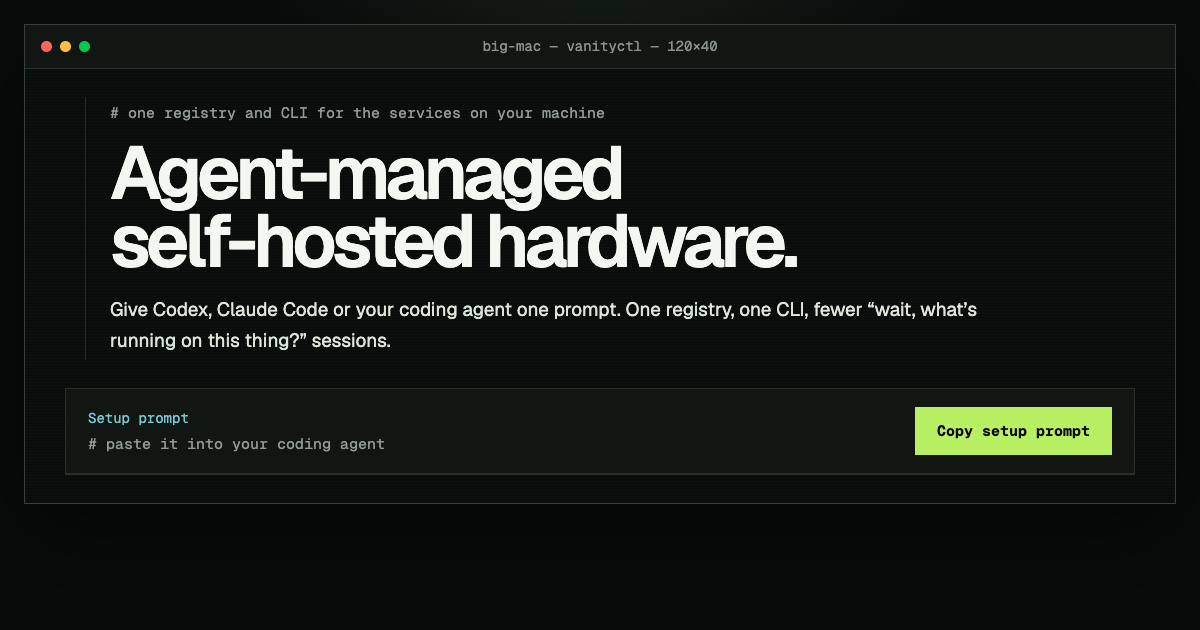
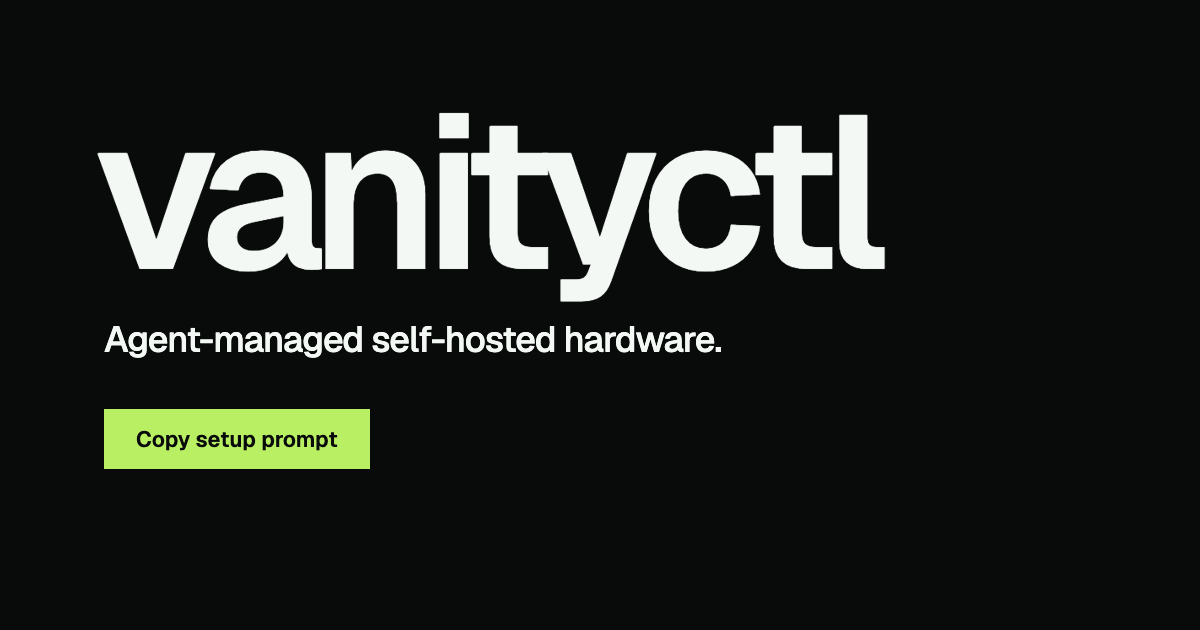
Simplify the site around its identity, prompt and concise overview

diff --git a/site/app/globals.css b/site/app/globals.css
@@ -1,81 +1,71 @@
 @import "tailwindcss";
 
-:root { --bg:#080b0a; --panel:#0b0f0c; --bar:#111612; --line:#263029; --text:#dce7dc; --bright:#f1f7f1; --muted:#8f9b93; --green:#b9ef63; --green-2:#7fd66f; --orange:#ff7043; --cyan:#79c8d2; }
-* { box-sizing:border-box; }
+:root { --bg:#080b0a; --panel:#111613; --text:#dce7dc; --bright:#f4f8f4; --muted:#9aa69e; --green:#b9ef63; --green-hover:#cdf585; --orange:#ff8a5c; }
 html { background:var(--bg); }
-body { --mono:var(--font-geist-mono),ui-monospace,monospace; --sans:var(--font-geist-sans),sans-serif; margin:0; color:var(--text); background:radial-gradient(circle at 50% -20%,#1a241d 0,transparent 38%),var(--bg); font:15px/1.6 var(--mono); }
-a { color:inherit; text-decoration:none; }
-code,pre,textarea,button { font-family:var(--mono); }
+/* next/font sets its variables on body, so the aliases must live here too. */
+body { --mono:var(--font-geist-mono),ui-monospace,monospace; --sans:var(--font-geist-sans),sans-serif; margin:0; color:var(--text); background:var(--bg); font:18px/1.6 var(--sans); }
+a { color:inherit; }
+code,textarea { font-family:var(--mono); }
 ::selection { background:var(--green); color:var(--bg); }
 :focus-visible { outline:2px solid var(--green); outline-offset:3px; }
+.visually-hidden { position:absolute; width:1px; height:1px; overflow:hidden; clip-path:inset(50%); white-space:nowrap; }
 
-main { padding:24px; }
-.terminal-window { width:min(1080px,100%); margin:auto; border:1px solid #344039; background-color:rgba(8,12,10,.96); background-image:repeating-linear-gradient(to bottom,rgba(220,231,220,.018) 0 1px,transparent 1px 3px); box-shadow:0 28px 90px rgba(0,0,0,.55); }
-.titlebar { height:44px; display:grid; grid-template-columns:1fr auto 1fr; align-items:center; padding:0 16px; border-bottom:1px solid var(--line); background:var(--bar); color:#89948c; font-size:13px; }
-.traffic { display:flex; gap:8px; }
-.traffic i { width:11px; height:11px; border-radius:50%; background:#ff645c; }
-.traffic i:nth-child(2) { background:#ffbd44; } .traffic i:nth-child(3) { background:#00ca4e; }
-nav { display:flex; flex-wrap:wrap; justify-content:center; gap:0 32px; padding:0 16px; border-bottom:1px solid var(--line); font-size:14px; }
-nav a { display:inline-flex; align-items:center; min-height:44px; color:var(--muted); }
-nav a:hover { color:var(--green); }
+.page { width:min(1120px,100%); margin:auto; padding:0 clamp(20px,5vw,64px); }
 
-.session { padding:clamp(24px,3vw,36px) clamp(18px,5vw,56px) clamp(20px,3vw,32px); }
-.prompt { display:flex; align-items:center; gap:9px; min-height:24px; color:#edf5ed; font-size:15px; overflow-wrap:anywhere; }
-.prompt-host { color:var(--green-2); font-weight:700; } .prompt-path { color:var(--cyan); } .prompt-mark { color:var(--orange); font-weight:800; }
-.output-block { margin-left:20px; padding-left:24px; border-left:1px solid var(--line); }
-.comment { color:var(--muted); }
+.site-header nav { display:flex; justify-content:flex-end; gap:0 28px; padding-top:12px; font-size:16px; }
+.site-header a { display:inline-flex; align-items:center; min-height:44px; color:var(--muted); text-decoration:none; }
+.site-header a:hover { color:var(--bright); }
 
-.hero { padding-block:4px; container-type:inline-size; }
-h1 { margin:14px 0 20px; color:var(--bright); font:600 min(8.4vw,88px)/.92 var(--sans); letter-spacing:-.06em; }
-h1 { font-size:min(8.4vw,10.3cqw,88px); }
-h1 span { display:block; }
-.lede { max-width:700px; font:clamp(17px,1.6vw,19px)/1.6 var(--sans); }
-.lede code { color:var(--green); font-size:.9em; }
+.hero { padding-top:clamp(16px,7vh,120px); }
+h1 { margin-left:-.05em; color:var(--bright); font:600 min(22vw,216px)/.86 var(--sans); letter-spacing:-.065em; }
+.tagline { margin-top:clamp(16px,2.5vw,28px); color:var(--bright); font-size:clamp(23px,3.2vw,38px); font-weight:500; line-height:1.2; letter-spacing:-.025em; }
+.intro { max-width:34em; margin-top:16px; }
 
-.setup { margin-top:32px; }
-.prompt-panel { margin-top:14px; border:1px solid var(--line); background:var(--panel); scroll-margin-top:16px; }
-.prompt-head { display:grid; gap:10px; padding:14px; border-bottom:1px solid var(--line); background:var(--bar); }
-.prompt-label { color:var(--cyan); font-size:14px; }
-.prompt-status { min-width:0; color:var(--muted); font-size:15px; line-height:1.45; }
-.prompt-status[data-status="idle"]::before { content:"# " / ""; }
-.prompt-status[data-status="copied"] { color:var(--green); }
-.prompt-status[data-status="copied"]::before { content:"✓ " / ""; }
-.prompt-status[data-status="manual"] { color:var(--orange); }
-.prompt-status[data-status="manual"]::before { content:"✗ " / ""; }
-.button { display:inline-flex; align-items:center; justify-content:center; min-height:48px; padding:0 22px; border:0; background:var(--green); color:var(--bg); font-size:15px; font-weight:700; cursor:pointer; transition:background-color .15s,transform .15s; }
-.button:hover { background:#cdf585; } .button:active { transform:translateY(1px); }
+/* Copy action, status and the disclosable prompt */
+.prompt-panel { margin-top:32px; scroll-margin-top:16px; }
+.prompt-head { display:flex; flex-wrap:wrap; align-items:flex-start; gap:8px 24px; }
+.button { order:1; display:inline-flex; align-items:center; justify-content:center; flex:1 1 100%; min-height:52px; padding:0 24px; border:0; background:var(--green); color:var(--bg); font:600 17px var(--sans); cursor:pointer; transition:background-color .15s,transform .15s; }
+.button:hover { background:var(--green-hover); }
+.button:active { transform:translateY(1px); }
 .button:focus-visible { outline-color:var(--bright); }
-.prompt-text { display:block; width:100%; padding:16px; border:0; background:transparent; color:#cdd7cf; font-size:14px; line-height:1.65; resize:none; scrollbar-color:#3a473f transparent; scroll-margin-block:16px; }
+.prompt-details { order:2; }
+.prompt-status, .prompt-head noscript { order:3; flex:1 1 100%; color:var(--muted); font-size:16px; line-height:1.45; }
+.prompt-status[data-status="copied"] { color:var(--green); }
+.prompt-status[data-status="manual"] { color:var(--orange); }
+.prompt-panel:has(.prompt-details[open]) .prompt-status { order:2; }
+.prompt-panel:has(.prompt-details[open]) .prompt-details { order:4; flex:1 1 100%; }
+
+.prompt-details summary { display:inline-flex; align-items:center; gap:8px; min-height:44px; color:var(--bright); cursor:pointer; list-style:none; text-decoration:underline; text-decoration-color:var(--muted); text-underline-offset:5px; }
+.prompt-details summary::-webkit-details-marker { display:none; }
+.prompt-details summary::after { content:"↓" / ""; color:var(--green); text-decoration:none; }
+.prompt-details[open] summary::after { content:"↑" / ""; }
+.prompt-details summary:hover { text-decoration-color:var(--bright); }
+.prompt-text { display:block; width:100%; margin-top:8px; padding:20px; border:0; background:var(--panel); color:var(--text); font-size:14px; line-height:1.65; resize:vertical; field-sizing:content; scrollbar-color:#3a473f transparent; scroll-margin-block:16px; }
 .prompt-text:focus-visible { outline-offset:-2px; }
-.prompt-panel[data-expanded="true"] .prompt-text { overflow:hidden; }
-.prompt-foot { display:flex; flex-wrap:wrap; justify-content:space-between; gap:0 24px; padding:0 14px; border-top:1px solid var(--line); }
-.text-button,.text-link { display:inline-flex; align-items:center; min-height:44px; color:var(--green); font-size:14px; cursor:pointer; }
-.text-link { color:var(--muted); }
-.text-button:hover,.text-link:hover { text-decoration:underline; text-underline-offset:5px; }
-.bracketed::before { content:"[ " / ""; } .bracketed::after { content:" ]" / ""; }
 
-footer { margin-top:24px; }
-footer>p { margin:8px 0 0 20px; color:var(--muted); font-size:13px; }
-.cursor { display:inline-block; width:9px; height:17px; background:var(--green); animation:blink 1.1s steps(1) infinite; }
-@keyframes blink { 50% { opacity:0; } }
+/* The two short sections */
+.details { display:grid; gap:56px; margin-top:clamp(88px,12vw,160px); }
+.details h2 { margin-bottom:16px; color:var(--bright); font-size:clamp(24px,2.4vw,30px); font-weight:600; line-height:1.2; letter-spacing:-.02em; }
+.details section > * + * { margin-top:14px; }
+.details li + li { margin-top:10px; }
+.details li::before { content:"– " / ""; color:var(--green); }
+.details code { color:var(--bright); font-size:.86em; overflow-wrap:anywhere; }
+.note { color:var(--muted); }
+.links { display:flex; flex-wrap:wrap; gap:0 28px; }
+.links a, .site-footer a { display:inline-flex; align-items:center; min-height:44px; color:var(--green); text-decoration:underline; text-underline-offset:5px; }
+.links a:hover, .site-footer a:hover { text-decoration-thickness:2px; }
 
-@media (min-width:640px) {
-  .prompt-head { grid-template-columns:minmax(0,1fr) auto; align-items:center; gap:2px 24px; padding:14px 20px; }
-  .prompt-head .button { grid-area:1/2/3/3; }
-  .prompt-head .prompt-label { grid-area:1/1; }
-  .prompt-head .prompt-status { grid-area:2/1; }
-  .prompt-text { padding:18px 20px; }
-  .prompt-foot { padding:0 20px; }
+.site-footer { display:flex; flex-wrap:wrap; justify-content:space-between; align-items:center; gap:0 24px; margin-top:clamp(88px,12vw,160px); padding-bottom:32px; color:var(--muted); font-size:16px; }
+.site-footer a { color:var(--muted); overflow-wrap:anywhere; }
+
+@media (min-width:480px) {
+  .button { flex:0 0 auto; }
+  .prompt-details summary { min-height:52px; }
 }
-@media (max-width:760px) {
-  main { padding:0; }
-  .terminal-window { border-inline:0; }
-  .titlebar .window-size { display:none; }
-  .output-block { margin-left:8px; padding-left:16px; }
-  nav { gap:0 24px; }
+@media (min-width:860px) {
+  .details { grid-template-columns:minmax(0,1fr) minmax(0,1fr); gap:64px; }
 }
 @media (prefers-reduced-motion:reduce) {
-  .cursor { animation:none; }
   .button { transition:none; }
   .button:active { transform:none; }
 }

diff --git a/site/components/copy-prompt.tsx b/site/components/copy-prompt.tsx
@@ -1,37 +1,20 @@
 "use client";
 
-import { useEffect, useRef, useState } from "react";
+import { useRef, useState } from "react";
 import { setupPrompt } from "../lib/setup-prompt";
 
-const promptSource = "https://github.com/ThatXliner/vanityctl/blob/main/prompts/install.md";
-
 const statusMessages = {
-  idle: "paste it into your coding agent",
-  copied: "copied. Paste it into your coding agent.",
+  idle: "Then paste it into your coding agent.",
+  copied: "Copied. Paste it into your coding agent.",
   manual:
-    "clipboard blocked, so nothing was copied. The full prompt is selected below: press ⌘C or Ctrl+C, or use your device's Copy option.",
+    "Your browser blocked copying, so nothing was copied. The full prompt is selected below: press ⌘C or Ctrl+C, or use your device's Copy option.",
 };
 
 export function CopyPrompt() {
   const [status, setStatus] = useState<keyof typeof statusMessages>("idle");
   const [expanded, setExpanded] = useState(false);
+  const detailsRef = useRef<HTMLDetailsElement>(null);
   const textRef = useRef<HTMLTextAreaElement>(null);
-
-  useEffect(() => {
-    const text = textRef.current;
-    if (!expanded || !text) return;
-
-    const fitContent = () => {
-      text.style.height = "auto";
-      text.style.height = `${text.scrollHeight}px`;
-    };
-    fitContent();
-    window.addEventListener("resize", fitContent);
-    return () => {
-      window.removeEventListener("resize", fitContent);
-      text.style.height = "";
-    };
-  }, [expanded]);
 
   async function copy() {
     // Clearing first makes a repeat copy announce again.
@@ -41,7 +24,8 @@ export function CopyPrompt() {
       await navigator.clipboard.writeText(setupPrompt);
       setStatus("copied");
     } catch {
-      setExpanded(true);
+      // Open synchronously so the textarea is focusable right away.
+      if (detailsRef.current) detailsRef.current.open = true;
       const text = textRef.current;
       if (text) {
         text.focus();
@@ -53,12 +37,7 @@ export function CopyPrompt() {
   }
 
   return (
-    <section
-      id="setup-prompt"
-      className="prompt-panel"
-      aria-labelledby="setup-prompt-label"
-      data-expanded={expanded}
-    >
+    <section id="setup-prompt" className="prompt-panel" aria-label="Setup prompt" data-expanded={expanded}>
       <div className="prompt-head">
         <button type="button" className="button" onClick={copy}>
           Copy setup prompt
@@ -68,36 +47,29 @@ export function CopyPrompt() {
         </p>
         <noscript>
           <p className="prompt-status" data-status="manual">
-            JavaScript is off, so the button cannot copy. Select the text below and copy it yourself.
+            Copying needs JavaScript. Select the text below, under Read prompt, and copy it yourself.
           </p>
         </noscript>
-        <label id="setup-prompt-label" className="prompt-label" htmlFor="setup-prompt-text">
-          Setup prompt
-        </label>
-      </div>
-      <textarea
-        ref={textRef}
-        id="setup-prompt-text"
-        className="prompt-text"
-        value={setupPrompt}
-        rows={5}
-        readOnly
-        spellCheck={false}
-        aria-describedby="setup-prompt-status"
-      />
-      <div className="prompt-foot">
-        <button
-          type="button"
-          className="text-button bracketed"
-          aria-expanded={expanded}
-          aria-controls="setup-prompt-text"
-          onClick={() => setExpanded(!expanded)}
+        <details
+          ref={detailsRef}
+          className="prompt-details"
+          onToggle={(event) => setExpanded(event.currentTarget.open)}
         >
-          {expanded ? "collapse prompt" : "show full prompt"}
-        </button>
-        <a className="text-link" href={promptSource}>
-          prompts/install.md ↗
-        </a>
+          <summary>Read prompt</summary>
+          <label className="visually-hidden" htmlFor="setup-prompt-text">
+            Full setup prompt
+          </label>
+          <textarea
+            ref={textRef}
+            id="setup-prompt-text"
+            className="prompt-text"
+            value={setupPrompt}
+            rows={16}
+            readOnly
+            spellCheck={false}
+            aria-describedby="setup-prompt-status"
+          />
+        </details>
       </div>
     </section>
   );

diff --git a/site/app/page.tsx b/site/app/page.tsx
@@ -3,43 +3,53 @@ import { CopyPrompt } from "../components/copy-prompt";
 const github = "https://github.com/ThatXliner/vanityctl";
 const docs = `${github}/blob/main/docs`;
 
-function Prompt({ children }: { children?: React.ReactNode }) {
-  return <div className="prompt"><span className="prompt-host">big-mac</span><span className="prompt-path">~</span><span className="prompt-mark" aria-hidden="true">❯</span><span>{children}</span></div>;
-}
-
 export default function Home() {
   return (
-    <main>
-      <div className="terminal-window">
-        <header className="titlebar">
-          <div className="traffic" aria-hidden="true"><i /><i /><i /></div>
-          <span>big-mac — vanityctl<span className="window-size"> — 120×40</span></span>
-        </header>
-
-        <nav aria-label="Documentation">
-          <a href={`${docs}/onboarding.md`}>onboarding</a>
-          <a href={`${docs}/README.md`}>docs</a>
-          <a href={github}>github ↗</a>
+    <div className="page">
+      <header className="site-header">
+        <nav aria-label="Project">
+          <a href={`${docs}/README.md`}>Docs</a>
+          <a href={`${docs}/onboarding.md`}>Onboarding</a>
+          <a href={github}>GitHub</a>
         </nav>
+      </header>
 
-        <div className="session">
-          <section className="hero output-block">
-            <p className="comment"># one registry and CLI for the services on your machine</p>
-            <h1><span>Agent-managed</span> <span>self-hosted hardware.</span></h1>
-            <p className="lede">Give Codex, Claude Code or your coding agent one prompt. One registry, one CLI, fewer “wait, what’s running on this thing?” sessions.</p>
+      <main>
+        <section className="hero">
+          <h1>vanityctl</h1>
+          <p className="tagline">Agent-managed self-hosted hardware.</p>
+          <p className="intro">Hand Codex, Claude Code or any coding agent one prompt. It sets up vanityctl and brings the services already on your Mac into one registry and CLI.</p>
+          <CopyPrompt />
+        </section>
+
+        <div className="details">
+          <section aria-labelledby="runs">
+            <h2 id="runs">What it runs</h2>
+            <ul>
+              <li>Docker containers and existing Compose stacks</li>
+              <li>Native processes and scheduled jobs, through launchd</li>
+              <li>Git deployments and Cloudflare DNS, if you want them</li>
+            </ul>
+            <p className="note">macOS first. Linux native services and systemd are not implemented yet.</p>
           </section>
 
-          <div className="setup">
-            <Prompt>cat prompts/install.md</Prompt>
-            <CopyPrompt />
-          </div>
-
-          <footer>
-            <Prompt><span className="cursor" aria-hidden="true" /></Prompt>
-            <p>MIT licensed · Rust · macOS first</p>
-          </footer>
+          <section aria-labelledby="context">
+            <h2 id="context">Context that carries over</h2>
+            <p>Setup starts with a read-only inventory and a migration plan. Services move over gradually, each with a health check and a rollback, and anything unsupported stays with its current owner.</p>
+            <p>What the agent learns stays in the registry. Next session it starts from <code>vanityctl status</code> or <code>vanityctl agent-context NAME --json</code> instead of digging through Compose files and plists again.</p>
+            <p>A local daemon does the actual work, the same way every time. No hosted service, no LLM inside.</p>
+            <p className="links">
+              <a href={`${docs}/onboarding.md`}>Onboarding guide</a>
+              <a href={`${docs}/README.md`}>Documentation</a>
+            </p>
+          </section>
         </div>
-      </div>
-    </main>
+      </main>
+
+      <footer className="site-footer">
+        <p>MIT licensed · Written in Rust</p>
+        <a href={github}>github.com/ThatXliner/vanityctl</a>
+      </footer>
+    </div>
   );
 }
